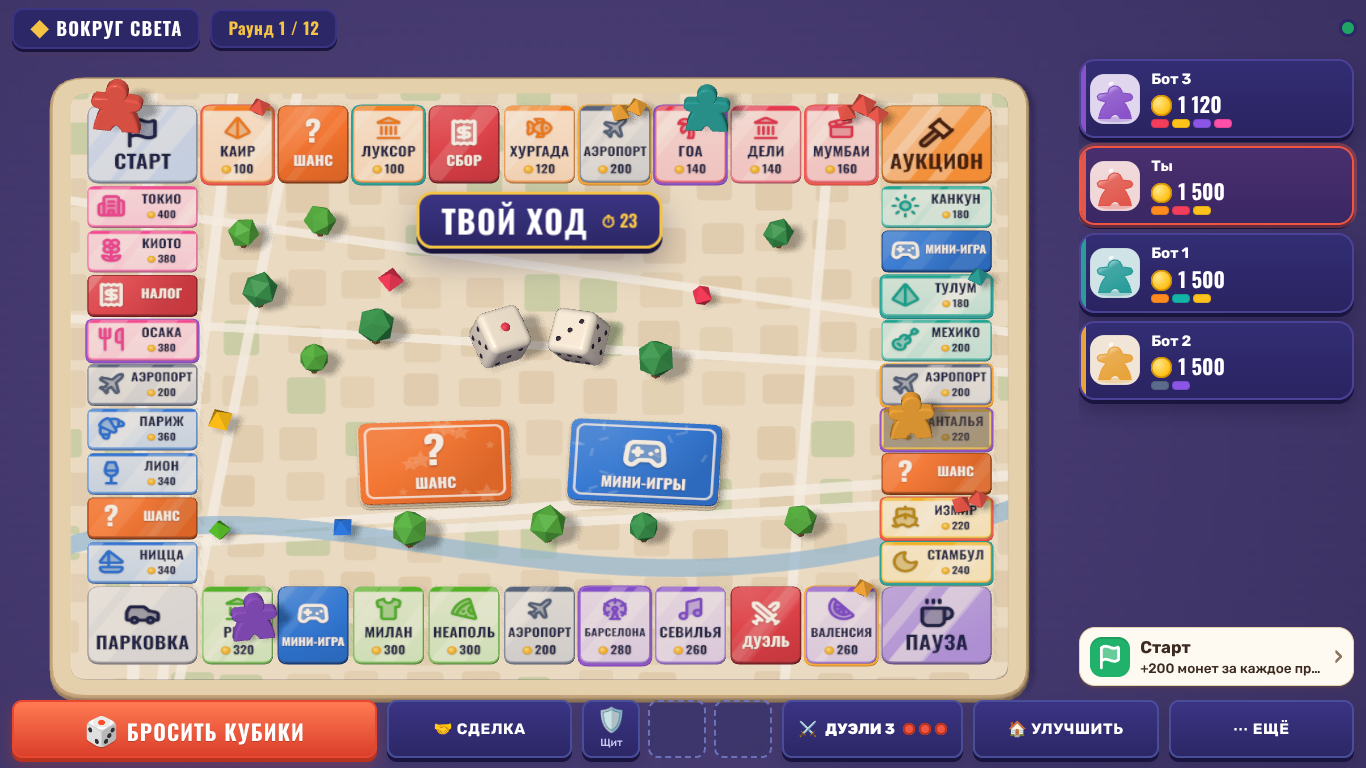
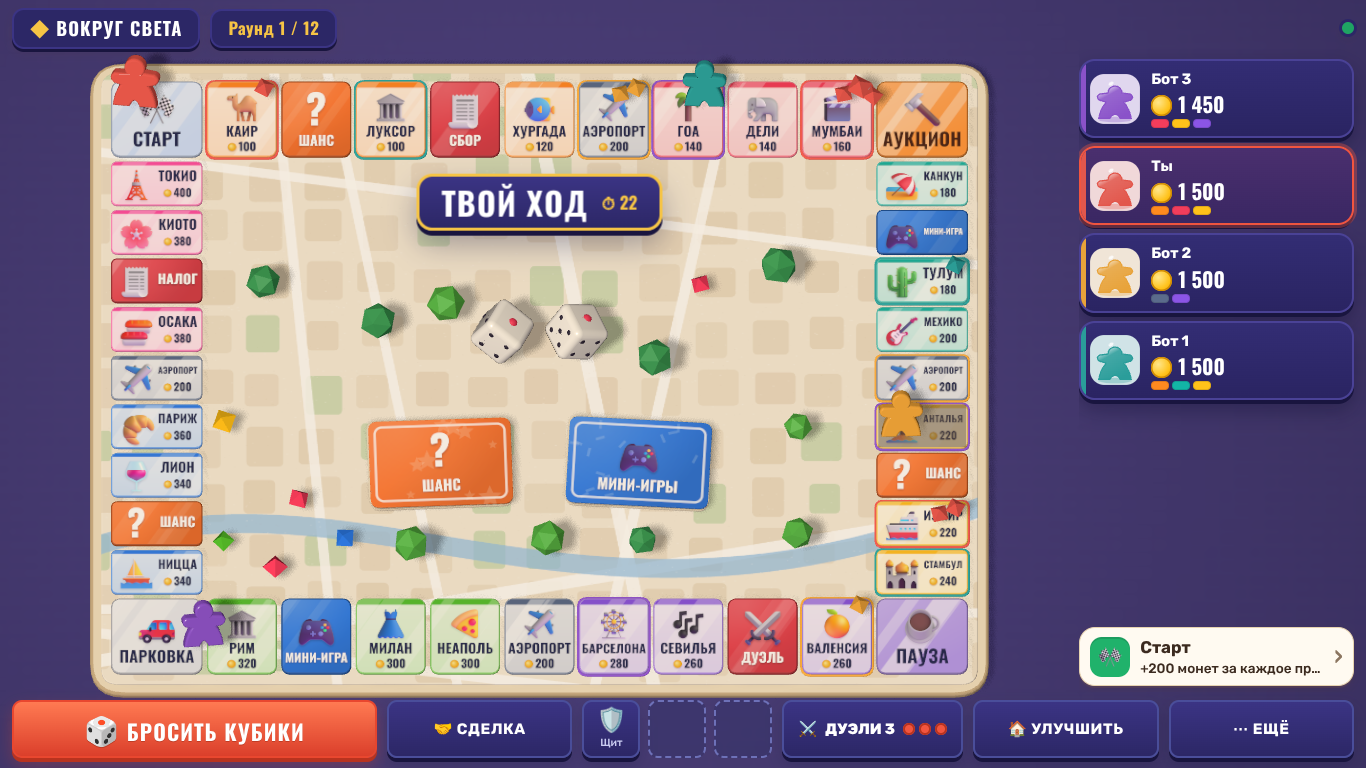
Визуал V2.3 (ПК): цветные 3D-иконки Fluent Emoji (MIT), камера почти сверху, крупнее клетки и иконки, мягкие тени под карточками
Claude-Session: https://claude.ai/code/session_01LHF2r8ytZCnyCujdkcjUQd

diff --git a/apps/client/src/render/Board.tsx b/apps/client/src/render/Board.tsx
@@ -14,9 +14,9 @@ import { PALETTE, cardEdgeColor, iconColor, createDeckTexture, createPaperTextur
 import { crystalGeometry } from './jelly';
 
 /** Paper margin around the tile ring. */
-const PLATE_MARGIN = 0.22;
+const PLATE_MARGIN = 0.12;
 /** Width of the wooden frame around the paper. */
-const FRAME = 0.32;
+const FRAME = 0.18;
 /** Thickness of the cardboard board lying on the table. */
 export const PLATE_THICKNESS = 0.14;
 /** Height of a tile card above the board. */
@@ -159,6 +159,11 @@ function TileCard({ index, texture, profile }: { index: number; texture: Texture
   const radius = Math.min(w, d) * 0.12;
   return (
     <group position={[r.x, 0, r.z]}>
+      {/* Soft painted drop shadow (works without real-time shadows, like the reference art). */}
+      <mesh position={[0.05, 0.003, 0.09]} rotation={[-Math.PI / 2, 0, 0]} raycast={() => null} renderOrder={-1}>
+        <planeGeometry args={[w + 0.3, d + 0.3]} />
+        <meshBasicMaterial map={cardShadowTexture()} transparent opacity={0.55} depthWrite={false} />
+      </mesh>
       {ownerColor && (
         <mesh geometry={roundedSlab(w + 0.06, d + 0.06, CARD_HEIGHT * 0.55, radius + 0.03, 0.01)} receiveShadow raycast={() => null}>
           <meshStandardMaterial color={ownerColor} roughness={0.35} emissive={ownerColor} emissiveIntensity={0.25} />
@@ -200,6 +205,22 @@ function TileCard({ index, texture, profile }: { index: number; texture: Texture
       </group>
     </group>
   );
+}
+
+let shadowTex: CanvasTexture | null = null;
+/** Blurred rounded-rectangle shadow, shared by all cards (stretched to the card size). */
+function cardShadowTexture(): CanvasTexture {
+  if (shadowTex) return shadowTex;
+  const c = document.createElement('canvas');
+  c.width = c.height = 128;
+  const ctx = c.getContext('2d')!;
+  ctx.filter = 'blur(9px)';
+  ctx.fillStyle = 'rgba(40,25,60,0.85)';
+  ctx.beginPath();
+  ctx.roundRect(22, 22, 84, 84, 14);
+  ctx.fill();
+  shadowTex = new CanvasTexture(c);
+  return shadowTex;
 }
 
 /** Rounded card stack: cream edges, printed top. */

diff --git a/apps/client/src/render/tileArt.ts b/apps/client/src/render/tileArt.ts
@@ -35,7 +35,7 @@ export const PALETTE = {
 type Pattern = 'stars' | 'rays' | 'circles' | 'dots' | 'waves' | 'diamonds' | 'confetti' | 'stripes';
 
 /** Pixels per world unit for tile cards. */
-const PX = 200;
+const PX = 260;
 
 export function specialColor(t: TileDef): string | null {
   if (t.group) return GROUPS[t.group].color;
@@ -343,8 +343,8 @@ export function createTileTexture(index: number, w: number, d: number, corner: b
     ctx.fillStyle = g;
     ctx.fillRect(0, 0, W, H);
     sheen(ctx, W, H, index + 5, 0.35);
-    drawIcon(ctx, t, W / 2, H * 0.36, S * 0.42, img, st.ink);
-    label(ctx, name, W / 2, H * 0.76, W * 0.86, S * 0.25, st.ink, false);
+    drawIcon(ctx, t, W / 2, H * 0.37, S * 0.52, img, st.ink);
+    label(ctx, name, W / 2, H * 0.79, W * 0.86, S * 0.24, st.ink, false);
     return finish(c);
   }
 
@@ -370,13 +370,13 @@ export function createTileTexture(index: number, w: number, d: number, corner: b
   }
   const dark = property;
   if (H >= W * 0.9) {
-    drawIcon(ctx, t, W / 2, H * (price ? 0.3 : 0.36), S * (price ? 0.4 : 0.46), img, ink);
-    label(ctx, name, W / 2, H * (price ? 0.62 : 0.74), W * 0.9, S * 0.22, ink, !dark);
-    if (price) priceTag(ctx, W / 2, H * 0.84, S * 0.19, price, ink);
+    drawIcon(ctx, t, W / 2, H * (price ? 0.34 : 0.4), S * (price ? 0.5 : 0.58), img, ink);
+    label(ctx, name, W / 2, H * (price ? 0.68 : 0.8), W * 0.92, S * 0.2, ink, !dark);
+    if (price) priceTag(ctx, W / 2, H * 0.87, S * 0.17, price, ink);
   } else {
-    const iconS = H * 0.62;
-    drawIcon(ctx, t, H * 0.5, H / 2, iconS, img, ink);
-    const tx = H * 0.9;
+    const iconS = H * 0.78;
+    drawIcon(ctx, t, H * 0.55, H * 0.54, iconS, img, ink);
+    const tx = H * 1.0;
     const cw = W - tx - H * 0.1;
     label(ctx, name, tx + cw / 2, H * (price ? 0.36 : 0.5), cw, H * 0.3, ink, !dark);
     if (price) priceTag(ctx, tx + cw / 2, H * 0.72, H * 0.24, price, ink);

diff --git a/apps/client/src/render/icons.ts b/apps/client/src/render/icons.ts
@@ -32,12 +32,41 @@ export function iconSvg(visual: string, color = '#ffffff', fillOpacity = 0.32, s
     .trim();
 }
 
+/**
+ * Colour 3D icons: Microsoft Fluent Emoji 3D (MIT, https://github.com/microsoft/fluentui-emoji),
+ * files in public/icons/fluent/<visual>.png. They match the user's reference images; Lucide line
+ * icons remain the fallback for visuals without a PNG.
+ */
+export const FLUENT = new Set([
+  'flag', 'receipt', 'gamepad', 'gavel', 'coffee', 'car', 'swords', 'plane', 'pyramid', 'columns', 'fish', 'palm',
+  'landmark', 'film', 'sun', 'cactus', 'guitar', 'umbrella', 'ship', 'moon', 'citrus', 'music', 'ferris', 'pizza',
+  'shirt', 'sailboat', 'wine', 'bread', 'utensils', 'sakura', 'tower', 'money', 'dice',
+]);
+
+export function fluentUrl(visual: string): string | null {
+  return FLUENT.has(visual) ? `icons/fluent/${visual}.png` : null;
+}
+
 const cache = new Map<string, Promise<HTMLImageElement | null>>();
 
-/** Icon as an image for canvas drawing. */
+function loadUrl(url: string): Promise<HTMLImageElement | null> {
+  return new Promise((resolve) => {
+    const img = new Image();
+    img.onload = () => resolve(img);
+    img.onerror = () => resolve(null);
+    img.src = url;
+  });
+}
+
+/** Icon as an image for canvas drawing: colour 3D PNG if available, else a tinted line icon. */
 export function iconImage(visual: string, color = '#ffffff'): Promise<HTMLImageElement | null> {
-  const key = `${visual}:${color}`;
+  const fluent = fluentUrl(visual);
+  const key = fluent ?? `${visual}:${color}`;
   let p = cache.get(key);
+  if (!p && fluent) {
+    p = loadUrl(fluent);
+    cache.set(key, p);
+  }
   if (!p) {
     const svg = iconSvg(visual, color);
     p = svg

diff --git a/apps/client/src/render/Scene.tsx b/apps/client/src/render/Scene.tsx
@@ -13,7 +13,7 @@ import { QUALITY, RENDER_SCALE, SHADOWS } from './quality';
 import { observeStage, stageRect } from './stage';
 
 /** Nearly top-down view with a small tilt (radians from vertical). */
-const TILT = 0.56;
+const TILT = 0.3; // close to top-down like the reference images: crisp, unsquashed tile text
 const CAM_DIST = 40;
 
 /**
@@ -35,7 +35,7 @@ function CameraRig({ profile }: { profile: Profile }) {
     cam.lookAt(0, 0, 0);
     cam.updateMatrixWorld();
     let minX = Infinity, maxX = -Infinity, minY = Infinity, maxY = -Infinity;
-    const m = profile.id === 'portrait' ? 0.25 : 0.45;
+    const m = profile.id === 'portrait' ? 0.2 : 0.25;
     for (const sx of [-1, 1]) for (const sz of [-1, 1]) for (const y of [0, 0.9]) {
       const p = new Vector3(sx * (profile.width / 2 + m), y, sz * (profile.height / 2 + m)).applyMatrix4(cam.matrixWorldInverse);
       minX = Math.min(minX, p.x); maxX = Math.max(maxX, p.x);

diff --git a/packages/content/src/map.ts b/packages/content/src/map.ts
@@ -91,7 +91,7 @@ export const WORLD_TILES: readonly TileDef[] = [
   // --- side 2: Мексика, аэропорт, Турция
   prop(11, 'cancun', 'Канкун', 'Канкун', 'mexico', 180, 18, 'sun'),
   special(12, 'minigame-1', 'minigame', 'Мини-игра', 'Мини-игра', 'gamepad', MINIGAME),
-  prop(13, 'tulum', 'Тулум', 'Тулум', 'mexico', 180, 18, 'pyramid'),
+  prop(13, 'tulum', 'Тулум', 'Тулум', 'mexico', 180, 18, 'cactus'),
   prop(14, 'mexico-city', 'Мехико', 'Мехико', 'mexico', 200, 20, 'guitar'),
   prop(15, 'air-east', 'Аэропорт «Восток»', 'Аэропорт', 'air', 200, 25, 'plane'),
   prop(16, 'antalya', 'Анталья', 'Анталья', 'turkey', 220, 22, 'umbrella'),

diff --git a/apps/client/src/ui/TileIcon.tsx b/apps/client/src/ui/TileIcon.tsx
@@ -1,8 +1,10 @@
-import { iconSvg } from '../render/icons';
+import { fluentUrl, iconSvg } from '../render/icons';
 import { VISUAL_ICONS } from '../render/tileArt';
 
 /** White line icon of a tile (same set as on the board); «?» for chance tiles. */
 export function TileIcon({ visual, size = 28 }: { visual: string; size?: number }) {
+  const png = fluentUrl(visual);
+  if (png) return <img className="tile-icon" src={png} width={size} height={size} alt="" draggable={false} />;
   const svg = iconSvg(visual);
   if (!svg) return <b className="tile-icon-q" style={{ fontSize: size * 0.95 }}>{VISUAL_ICONS[visual] ?? '?'}</b>;
   return <span className="tile-icon" style={{ width: size, height: size }} dangerouslySetInnerHTML={{ __html: svg }} />;

diff --git a/apps/client/src/render/Tokens.tsx b/apps/client/src/render/Tokens.tsx
@@ -82,7 +82,7 @@ function Token({ player, slot, profile }: { player: PublicPlayer; slot: number; 
   return (
     <group ref={ref} position={initial.current}>
       {/* Whose turn: the figure stands a bit taller (static, so idle frames are not redrawn). */}
-      <group scale={active ? scale * 1.12 : scale} rotation={[-0.45, (slot - 1.5) * 0.12, 0]}>
+      <group scale={active ? scale * 1.12 : scale} rotation={[-0.85, (slot - 1.5) * 0.12, 0]}>
         <Model slot={ghost ? 'ghost' : 'token'} tint={player.color} fallback={<JellyFigure color={player.color} ghost={ghost} />} />
       </group>
     </group>

diff --git a/apps/client/src/render/layout.ts b/apps/client/src/render/layout.ts
@@ -26,7 +26,7 @@ function profile(id: ProfileId, cw: number, cd: number, tw: number, sh: number):
 }
 
 export const PROFILES: Record<ProfileId, Profile> = {
-  landscape: profile('landscape', 1.75, 1.45, 1.15, 0.8),
+  landscape: profile('landscape', 1.55, 1.35, 1.2, 0.82),
   portrait: profile('portrait', 1.12, 1.1, 0.82, 1.42),
 };
 export const TILE_HEIGHT = 0.07;

diff --git a/docs/VISUAL_DIRECTION.md b/docs/VISUAL_DIRECTION.md
@@ -93,3 +93,12 @@
 Убрано: деревянный стол, тени листвы, купюры и карточки вокруг поля (код удалён).
 Производительность: на программном WebGL сцена рисуется в разрешении 0.6 (`?scale=1` — полное) и без теней (`?shadows=1` — с тенями), чтобы E2E укладывался в лимит. В простое кадров нет (проверено счётчиком `renderer.info`).
 Скриншоты `docs/screenshots/visual-v2/` — V2.2, сняты с `?scale=1&shadows=1`, dev-витрина `showcase`.
+
+## V2.3 — ближе к картинкам пользователя (ПК, 02.11.2026)
+Пользователю V2.2 «не нравится», просил «вторую версию ближе к тому, что отправлял», фокус — ПК. Главное отличие от картинок ChatGPT было в иконках (там цветные объёмные, у нас белые линии), наклоне камеры и мелких клетках. Сделано:
+- **Цветные 3D-иконки Microsoft Fluent Emoji 3D** (лицензия MIT, файл лицензии — `apps/client/public/icons/fluent/LICENSE.txt`), 34 PNG 256×256 в `apps/client/public/icons/fluent/<visual>.png`; на поле и в интерфейсе. Lucide остаётся запасным вариантом для ключей без PNG.
+- Камера почти сверху (наклон 17° вместо 32°), фишки откинуты к камере сильнее.
+- Иконки и названия на клетках крупнее, текстуры клеток чётче (260 px на единицу).
+- Нарисованная мягкая тень под каждой карточкой (видна и без теней в реальном времени).
+- Поле крупнее: уже рамка и поля, уже угловые клетки на ПК.
+Скриншоты: `docs/screenshots/visual-v2/desktop-1366.png`, `desktop-1920.png` (V2.3); телефонные — ещё V2.2/40 клеток.

diff --git a/docs/ASSETS.md b/docs/ASSETS.md
@@ -41,3 +41,6 @@
 | Шрифт Rubik | `@fontsource/rubik` | SIL Open Font License 1.1 |
 | Звуки | синтез WebAudio в коде | собственные |
 | Концепты `output/concepts/*.png` | присланы пользователем, только референсы, в сборку не входят | — |
+
+## Иконки клеток (с 02.11.2026)
+По умолчанию — цветные 3D-иконки **Microsoft Fluent Emoji 3D** (MIT, © Microsoft; лицензия лежит рядом: `public/icons/fluent/LICENSE.txt`). Файл = `public/icons/fluent/<visual>.png`, где `visual` — ключ клетки из `packages/content/src/map.ts`; список подключённых ключей — `FLUENT` в `apps/client/src/render/icons.ts`. Свою иконку для конкретной клетки можно по-прежнему задать в `assets.json` → `icons` (по номеру клетки) — она главнее.
